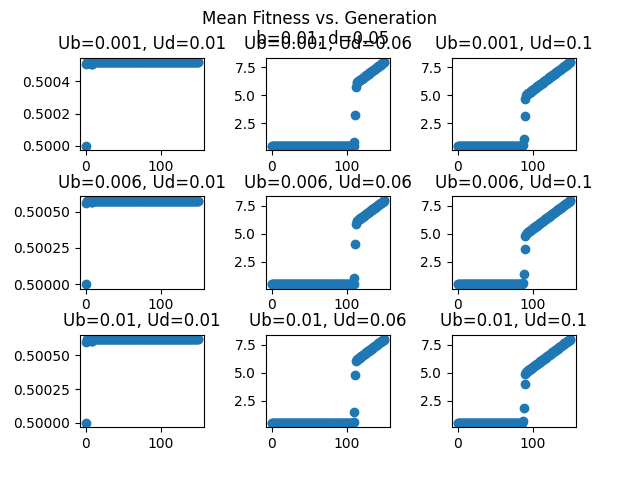
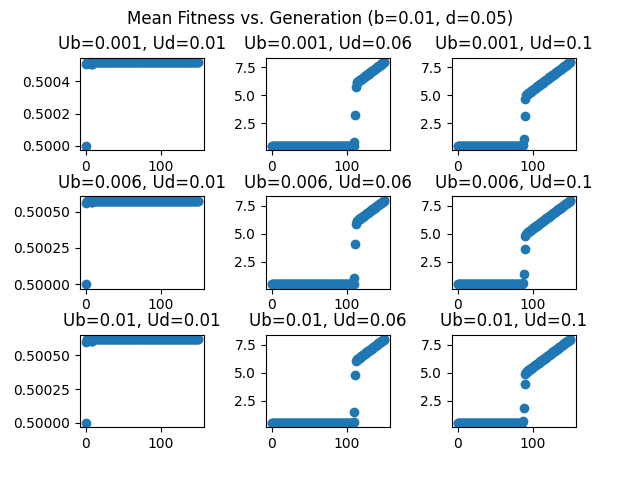
subplots

Changed region(s): [[0.1875, 0.0, 0.8125, 0.0938]]

diff --git a/simple-fitness-tracking.py b/simple-fitness-tracking.py
@@ -53,7 +53,7 @@ if __name__=='__main__':
     # set the spacing between subplots
     plt.subplots_adjust(wspace=0.5,
                         hspace=0.5)
-    plt.suptitle(f'Mean Fitness vs. Generation\n b={b}, d={d}')
+    plt.suptitle(f'Mean Fitness vs. Generation (b={b}, d={d})')
     for i, Ub in enumerate(Ubs):
         for j, Ud in enumerate(Uds):
             fitnesses = [{starting_fitness: population}]  # key: value, fitness: # of individuals with fitness
